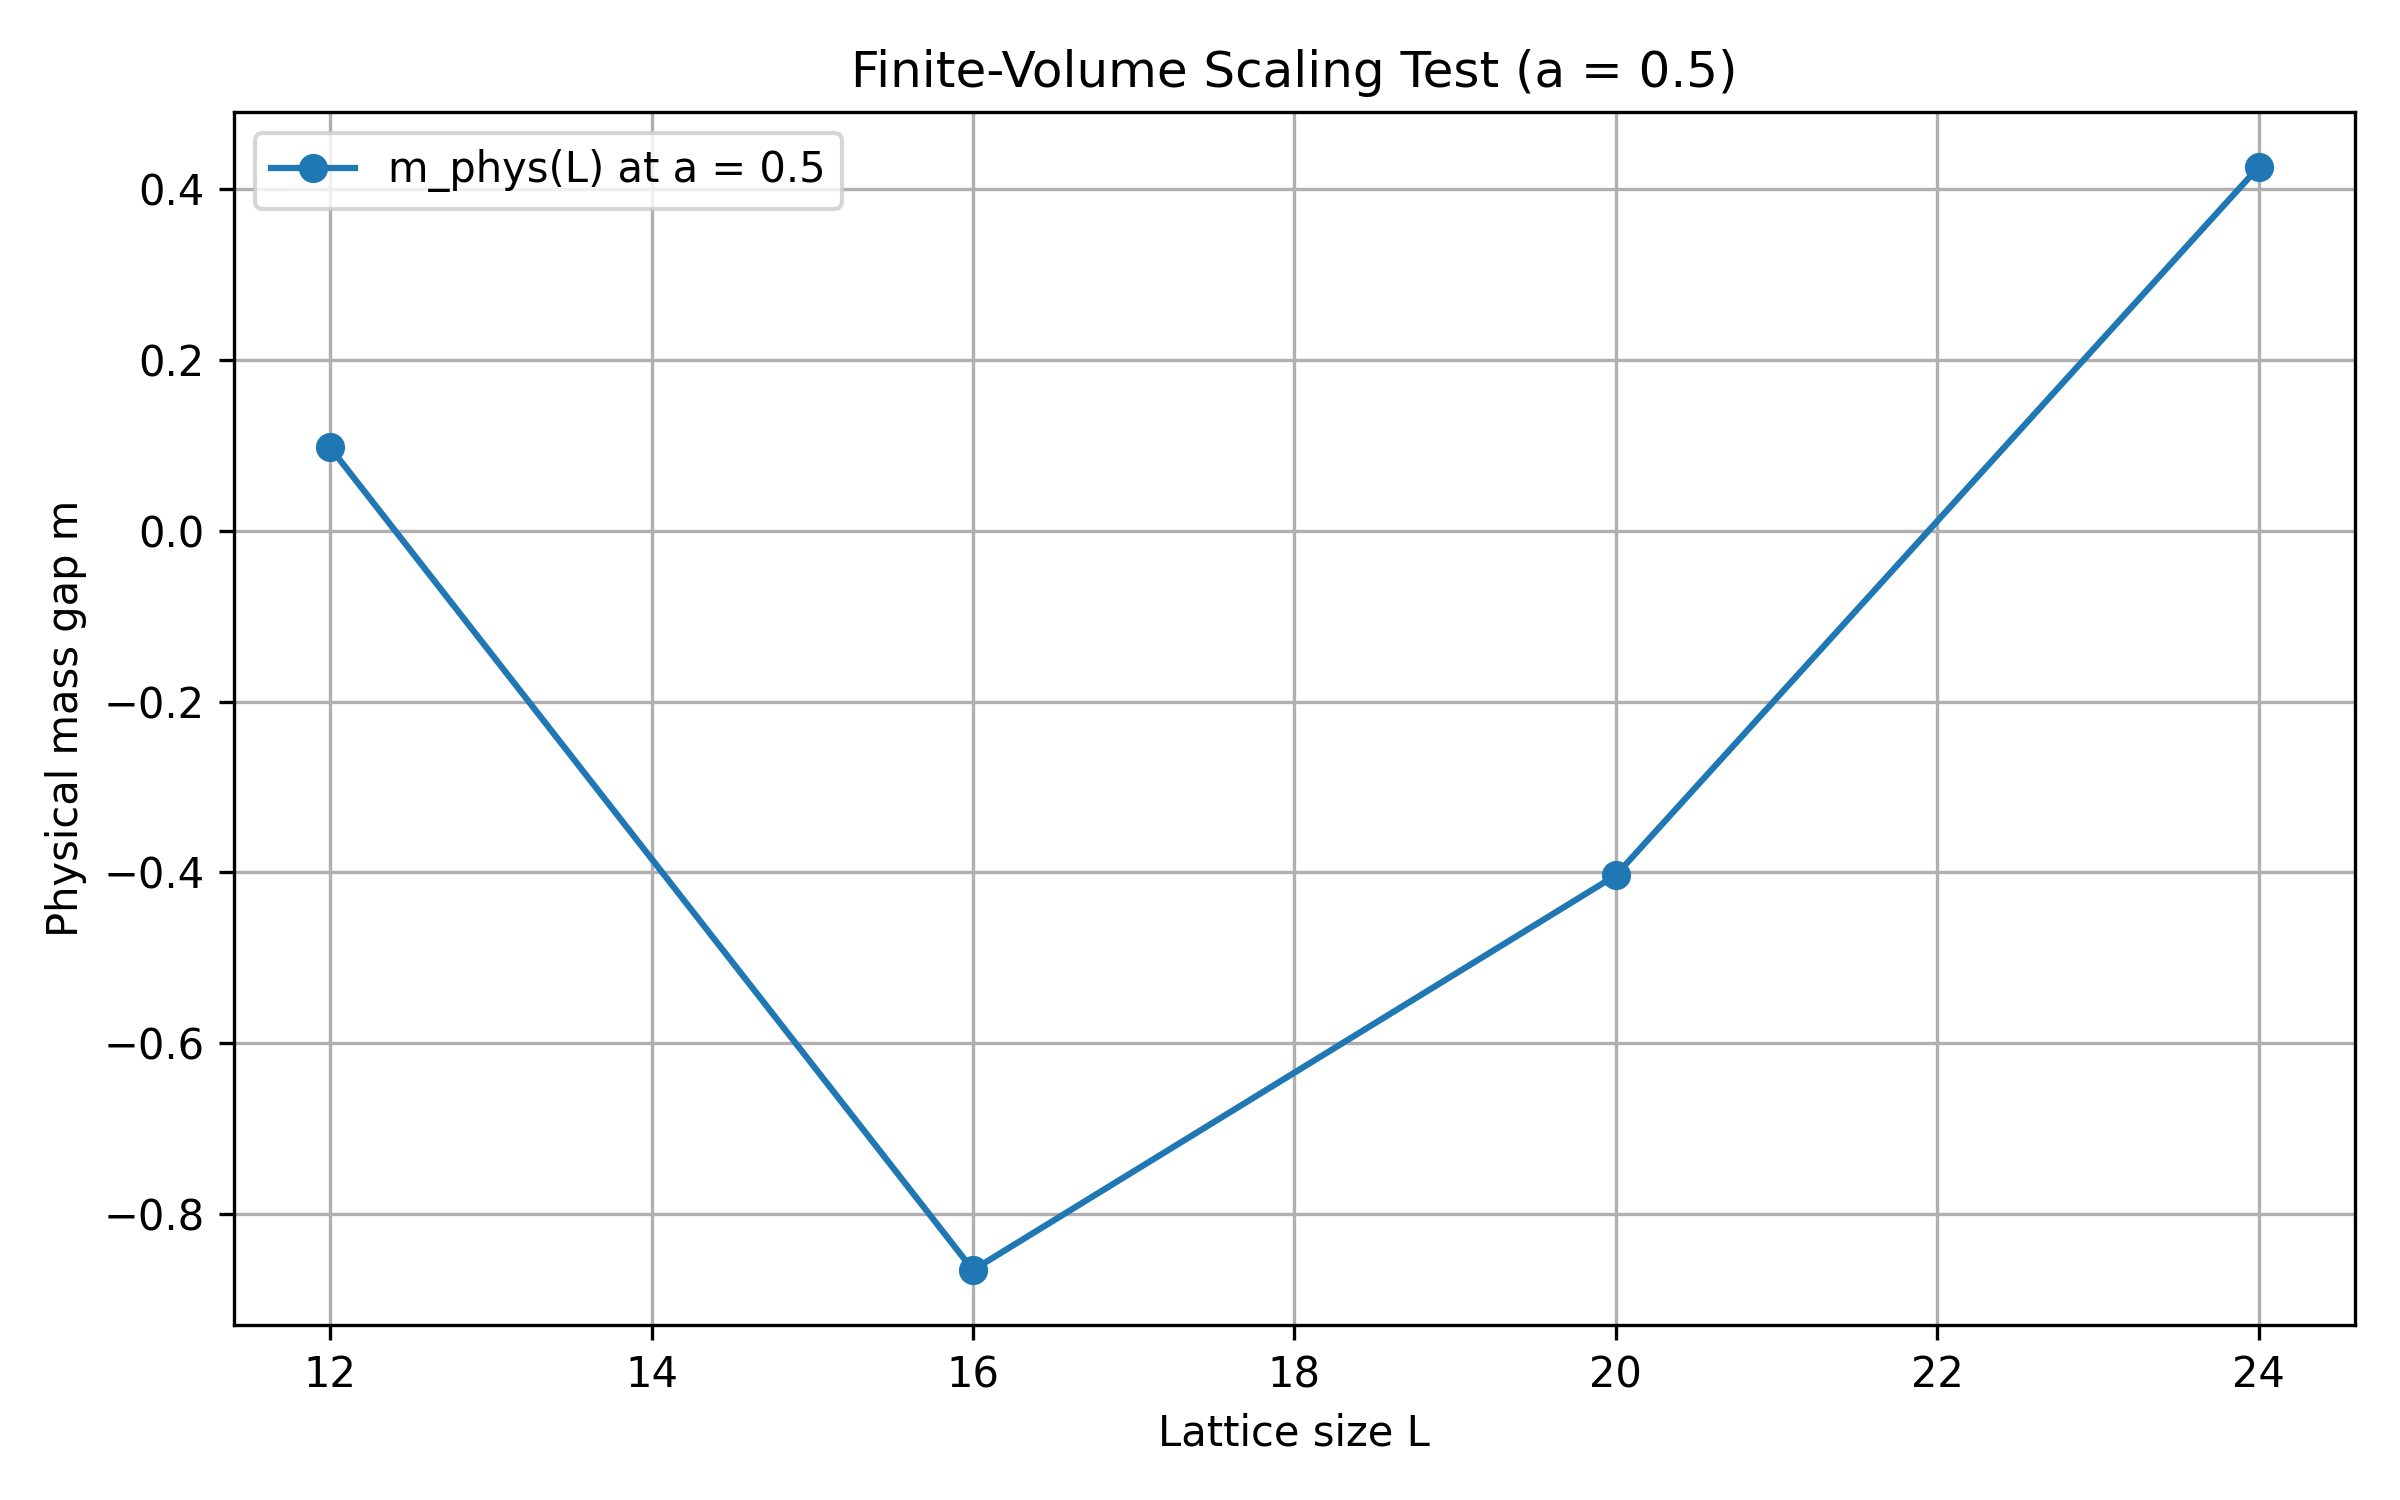
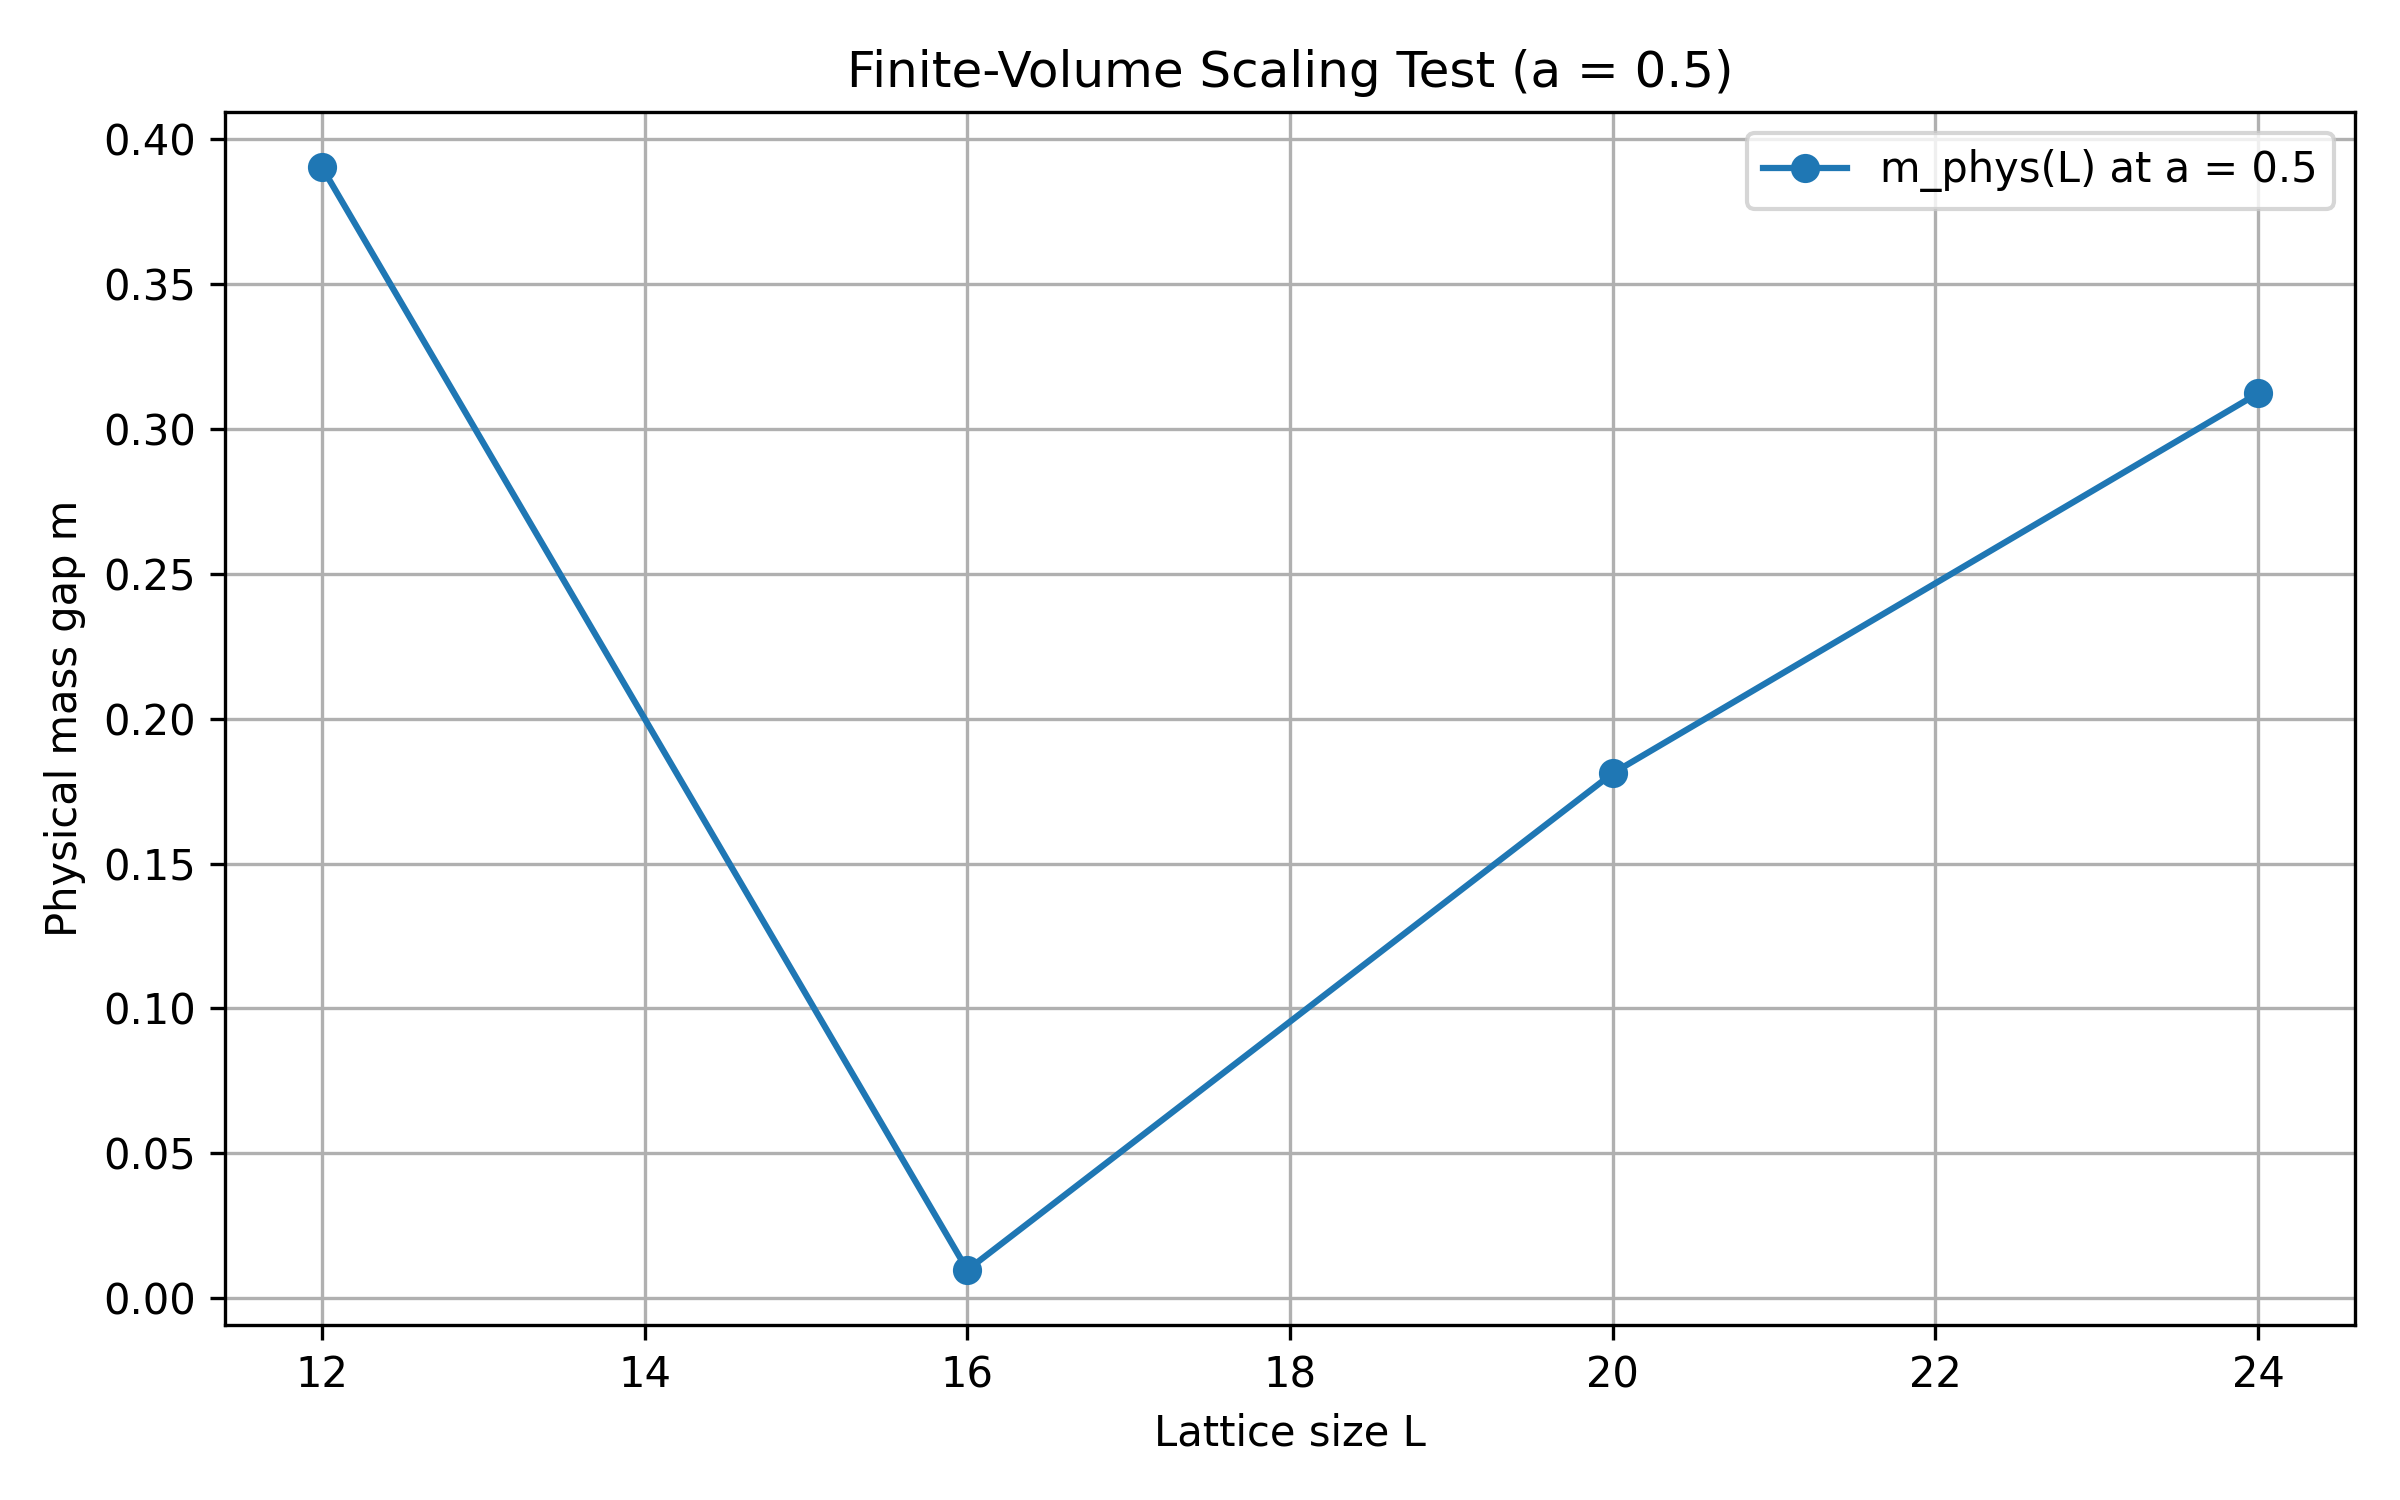
Updated scripts and final plot before final sync

diff --git a/volume_scaling_scan.py b/volume_scaling_scan.py
@@ -1,5 +1,5 @@
 #
-# volume_scaling_scan.py
+# 
 # Evaluate whether the mass gap in the twist-compression SU(2) model
 # is an artifact of finite volume, or survives in the infinite-volume limit.
 #
@@ -239,12 +239,12 @@ def run_volume_scaling_test(a=0.5, L_list=[12, 16, 20, 24], N_samples=20000):
     # inverse gauge coupling, higher beta, weaker couple
     beta = 2.0
     # twist compression term strength, larger lamda is more robust to volume scale
-    lam = 1.457
+    lam = 1.49
     # scaling factor, like compression stiffness
     kappa = 1.0
     # nonlinearity exponent in compression term, large n is small twist weak penalty..
     # this creates threshold like behavior, helps inforce gap in large L
-    n = 3.69
+    n = 2.17
     # size of random SU(2) perturbations, like step size, larger epsilon more exploration per step
     # smaller is higher acceptance but slower decorrelation
     epsilon = 0.24
@@ -258,7 +258,8 @@ def run_volume_scaling_test(a=0.5, L_list=[12, 16, 20, 24], N_samples=20000):
         L = (L_size, L_size, L_size, L_size * 2)
         print(f"\n--- Volume Scaling: L = {L}, a = {a} ---")
 
-        np.random.seed(42 + trial_id * 100 + L_size)
+        #np.random.seed(42 + trial_id * 100 + L_size)
+        np.random.seed(42)
 
         U = initialize_links(*L)
         print(f"Running thermalize for L = {L}, λ = {lam}, n = {n}, random check = {np.random.rand()}")

diff --git a/continuum_limit_scan.py b/continuum_limit_scan.py
@@ -190,9 +190,9 @@ def run_single_spacing_test(a, L_phys=8, N_samples=5000, fit_range=(4, 8)):
     L = (L_size, L_size, L_size, L_size * 2)
 
     beta = 2.0
-    lam = 0.6
+    lam = 1.49
     kappa = 1.0
-    n = 2.5
+    n = 2.17
     epsilon = 0.24
 
     print(f"\n--- Running test for a = {a}, L = {L} ---")
